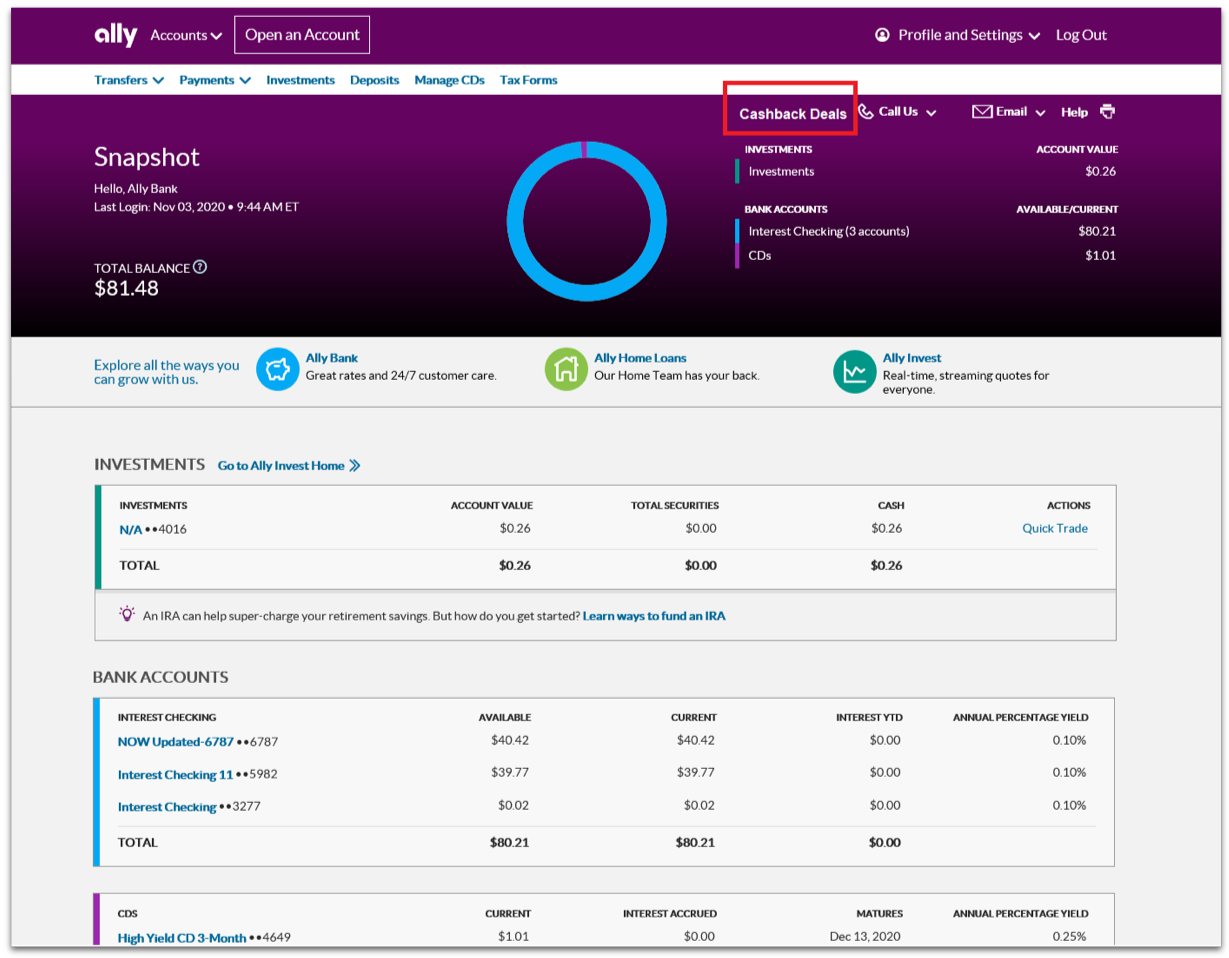
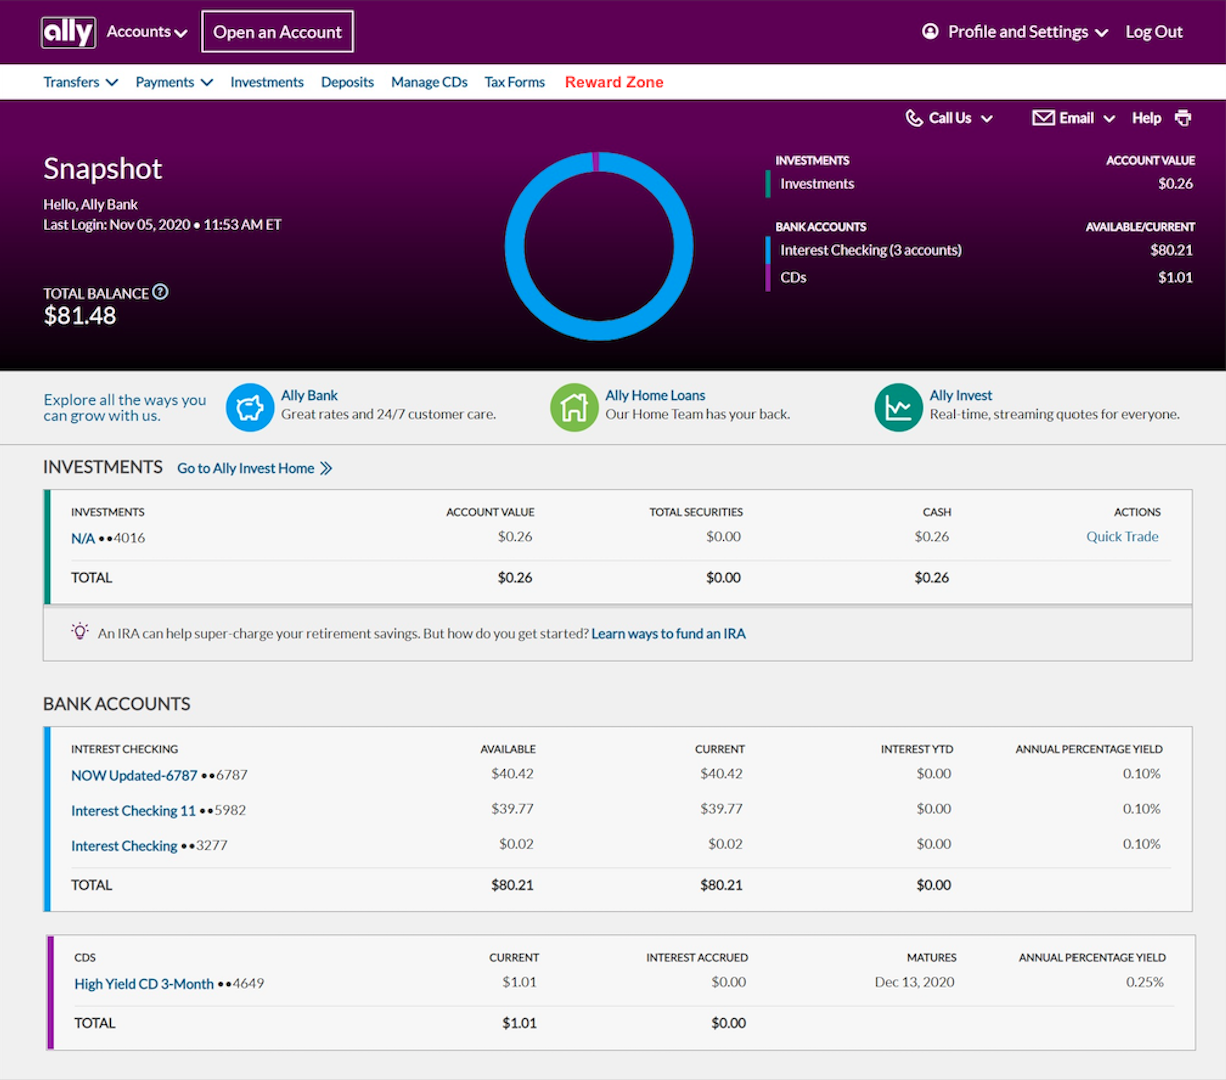
commit two

diff --git a/src/Component/Deals.js b/src/Component/Deals.js
@@ -10,7 +10,11 @@ class Deals extends Component {
         points: null,
         link: null,
         message: "New notification here",
-        deals: []
+        deals: [],
+        offers: [],
+        card: null,
+        offer: null,
+        reward: null
     }
 
     // url = "https://maps.googleapis.com/maps/api/place/nearbysearch/json?location=35.225480,-80.848550&radius=1500&type=restaurant,gas_station,supermarket,store,pet_store,loding&key=AIzaSyBRmajpUGlLdnzzoBWockX7LnjU3mJ3znU"
@@ -25,6 +29,15 @@ class Deals extends Component {
         this.setState({message: "New rewards deals near you!"})
     }
 
+    showOffers = async () => {
+        let result;
+        let response;
+        result = await fetch('http://localhost:8080/offerdata/all')
+        response = await result.json()
+        this.setState({offers : response})
+        this.setState({message: "New rewards deals near you!"})
+    }
+
     Deal = ({account, points, link}) => 
     <tr>
         <td>{account}</td>
@@ -32,8 +45,17 @@ class Deals extends Component {
         <td>{link}</td>
     </tr>
 
+    Offer = ({card, offer, reward}) => 
+    <tr>
+        <td>{card}</td>
+        <td>{offer}</td>
+        <td>{reward}</td>
+    </tr>
+
+
     componentDidMount() {
         this.showDeals()
+        this.showOffers()
     }
 
     
@@ -43,10 +65,13 @@ class Deals extends Component {
             <div className="deals">
             <img className='ally-header-image' src={AllyHeaderImage}/>
             
-            <h1>My Rewards</h1>
+            <h1>Reward Zone</h1>
 
-            <Search changer={this.showDeals} />
+            {/* <Search changer={this.showDeals} /> */}
+
             {/* <button onClick={this.showDeals}> Show Deals</button> */}
+
+            
 
             <h2>My Points</h2>
 
@@ -68,13 +93,13 @@ class Deals extends Component {
             <Table> 
                     <thead>
                         <tr>
-                            <th>Account</th>
-                            <th>Reward PTS</th>
-                            <th>Link</th>
+                            <th>Card</th>
+                            <th>Offer</th>
+                            <th>Reward</th>
                         </tr>
                     </thead>
                     <tbody>
-                         {this.state.deals.map(deals => <this.Deal key={deals.id} account={deals.account} points={deals.points} link={deals.link} />)}
+                         {this.state.offers.map(offers => <this.Offer key={offers.id} card={offers.card} offer={offers.offer} reward={offers.reward} />)}
                     </tbody>
             </Table>
 

diff --git a/src/App.css b/src/App.css
@@ -1,6 +1,6 @@
 .App {
   text-align: center;
-  background-color: lightgrey;
+  background-color: #f2f2f2;
 }
 
 .App-logo {
@@ -47,6 +47,56 @@
 .ally-header-image {
   max-width: 100%;
   max-height: 100%;
+}
+
+.process1 {
+  max-width: 100%;
+  max-height: 100%;
+  background-size: cover;
+}
+
+.process2 {
+  max-width: 100%;
+  max-height: 100%;
+  display: block;
+  margin-left: auto;
+  margin-right: auto;
+}
+
+.process2page {
+  background-color: #f2f2f2;
+}
+
+.process3 {
+  max-width: 100%;
+  max-height: 100%;
+  display: block;
+  margin-left: auto;
+  margin-right: auto;
+}
+
+.process3page {
+  background-color: #f2f2f2;
+}
+
+.process4 {
+  max-width: 100%;
+  max-height: 100%;
+  display: block;
+  margin-left: auto;
+  margin-right: auto;
+}
+
+.process4page {
+  background-color: #f2f2f2;
+}
+
+.body {
+  background-color: #f2f2f2;
+}
+
+.deals {
+  background-color: #f2f2f2;
 }
 
 /* Progress bar from react bootstrap */

diff --git a/src/Component/ProcessThreePage.js b/src/Component/ProcessThreePage.js
@@ -5,7 +5,7 @@ import { Route, Link, BrowserRouter as Router } from 'react-router-dom';
 class ProcessThreePage extends React.Component {
     render() {
         return (
-            <div>
+            <div className="process3page">
                 <Link to="processfourpage">
                 <img className='process3' src={ProcessThree}/>
                 </Link>

diff --git a/src/Component/ProcessTwoPage.js b/src/Component/ProcessTwoPage.js
@@ -5,7 +5,7 @@ import { Route, Link, BrowserRouter as Router } from 'react-router-dom';
 class ProcessTwoPage extends React.Component {
     render() {
         return (
-            <div>
+            <div className="process2page">
                 <Link to="/processthreepage">
                 <img className='process2' src={ProcessTwo}/>
                 </Link>

diff --git a/src/Component/Body.js b/src/Component/Body.js
@@ -92,7 +92,7 @@ class Body extends Component {
 
     render () {
         return (
-            <div>
+            <div className="body">
                 <h1> Transaction History </h1>
                 {/* <p>
                     Date: <input value= {this.state.date} onChange= {this.updateDate} />

diff --git a/src/App.js b/src/App.js
@@ -38,9 +38,9 @@ function App() {
         -
       </p> */}
 
-      <Navbar />
+      {/* <Navbar /> */}
 
-      <p>
+      {/* <p>
         -
       </p>
       
@@ -51,7 +51,7 @@ function App() {
         -
       </p>
 
-      <Body />
+      <Body /> */}
 
       {/* <Coordinates/> */}
 

diff --git a/src/Component/ProcessFourPage.js b/src/Component/ProcessFourPage.js
@@ -4,7 +4,7 @@ import ProcessFour from './process4.png';
 class ProcessFourPage extends React.Component {
     render() {
         return (
-            <div>
+            <div className="process4page">
                 <img className='process4' src={ProcessFour}/>
             </div>
 
